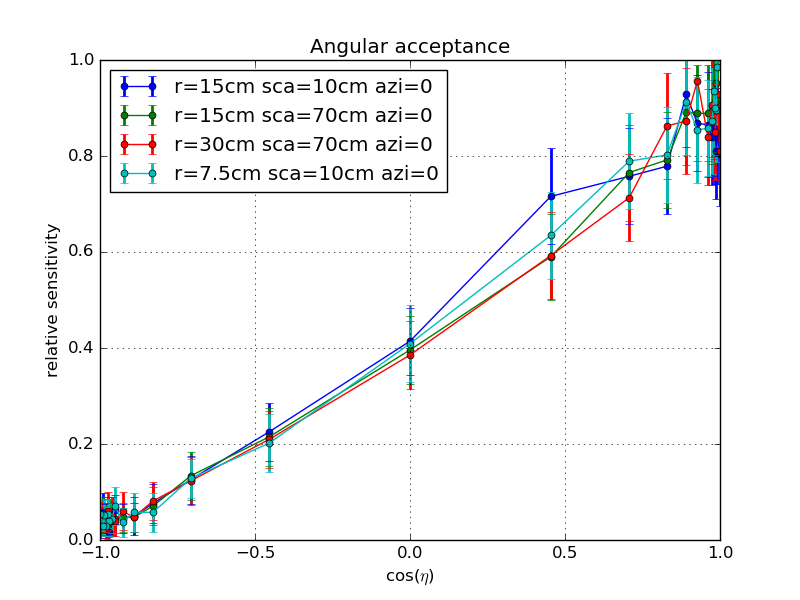
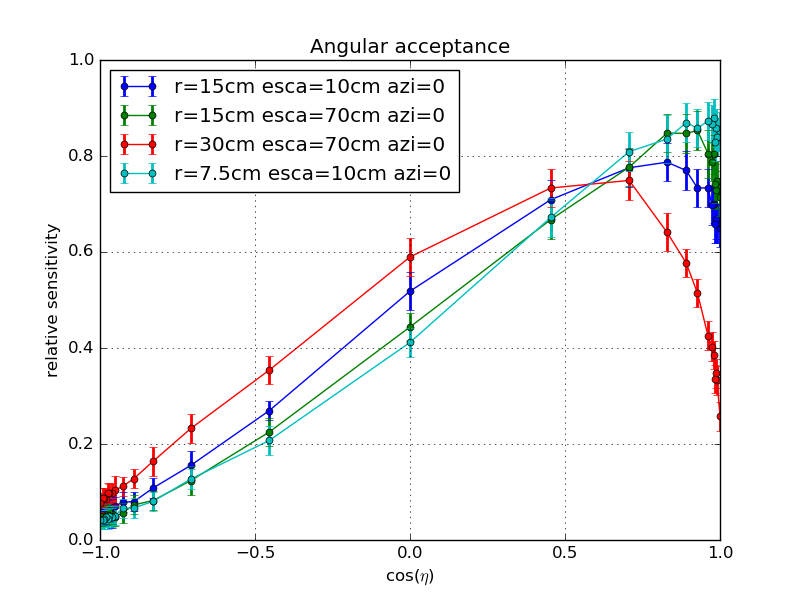
updating calibration-call slides: more statistics, esca rather than sca
https://github.com/fiedl/hole-ice-study/issues/117

diff --git a/latex-beamer/text/azimuthal_angles.tex b/latex-beamer/text/azimuthal_angles.tex
@@ -8,7 +8,7 @@
     \vspace{1cm}
 
     \textbf{YouTube video with Steamshovel visualization}: \\ \vspace{0.2cm}
-    \url{https://www.youtube.com/watch?v=M_QGNdGG9Ew}
+    \url{https://youtu.be/Wiu8CpVQn14}
 
     \vspace{1cm}
 
@@ -52,22 +52,22 @@
 \begin{frame}[fragile]{Simulation results}
   \begin{columns}
     \begin{column}{0.5\textwidth}
-      \includegraphics[width=\textwidth]{img/summer_scenario_r7-5cm_sca10cm}
+      \includegraphics[width=\textwidth]{img/summer_scenario_r7-5cm_esca10cm}
     \end{column}
     \begin{column}{0.5\textwidth}
       \includegraphics[width=0.8\textwidth]{img/summerscenario-003}
     \end{column}
   \end{columns}
 
-  \tiny Total photon hit count: 12968 / 1e6
+  \tiny Total photon hit count: 118441 / 1e7
 
   \tiny Configuration: Starting distance $3\m$, plane-wave extent $3\m$, bubble-column geometric scattering length $10\cm$, bulk-ice geometric scattering length $130\cm$.
   \normalsize
 
   \begin{itemize}
     \item For lower polar angles ($\cos\eta \approx 1$), less photons should arrive from azimuths B and C as from azimuth A
-      \tiny as the DOM's PMTs look downwards and photons from B and C are more likely to cross the bubble-column cylinder. \normalsize
-    \item From azimuths B and C, the same number of photons should arrive \tiny due to the symmetry of the scenario (right image). \normalsize
+      \tiny as the DOM's PMTs look downwards and photons from B and C are more likely to cross the bubble-column cylinder. \normalsize \checkmark
+    \item From azimuths B and C, the same number of photons should arrive \tiny due to the symmetry of the scenario (right image). \normalsize \checkmark
   \end{itemize}
 \end{frame}
 
@@ -75,20 +75,21 @@
 \begin{frame}[fragile]{Simulation results}
   \begin{columns}
     \begin{column}{0.5\textwidth}
-      \includegraphics[width=\textwidth]{img/summer_scenario_r15cm_sca10cm}
+      \includegraphics[width=\textwidth]{img/summer_scenario_r15cm_esca10cm}
     \end{column}
     \begin{column}{0.5\textwidth}
       \includegraphics[width=0.8\textwidth]{img/summerscenario-004}
     \end{column}
   \end{columns}
 
-  \tiny Total photon hit count: 11600 / 1e6
+  \tiny Total photon hit count: 94866 / 1e7
 
   \tiny Configuration: Starting distance $3\m$, plane-wave extent $3\m$, bubble-column geometric scattering length $10\cm$, bulk-ice geometric scattering length $130\cm$.
   \normalsize
 
   \begin{itemize}
-    \item For a larger bubble column with same scattering lenght, the effect should increase. \checkmark
+    \item For a larger bubble column with same scattering length, the effect should increase. \checkmark
+    \item For photons coming from below, the blue curve should see a stronger effect as well. \checkmark
   \end{itemize}
 \end{frame}
 
@@ -96,14 +97,14 @@
 \begin{frame}[fragile]{Simulation results}
   \begin{columns}
     \begin{column}{0.5\textwidth}
-      \includegraphics[width=\textwidth]{img/summer_scenario_r15cm_sca70cm}
+      \includegraphics[width=\textwidth]{img/summer_scenario_r15cm_esca70cm}
     \end{column}
     \begin{column}{0.5\textwidth}
       \includegraphics[width=0.8\textwidth]{img/summerscenario-004}
     \end{column}
   \end{columns}
 
-  \tiny Total photon hit count: 13115 / 1e6
+  \tiny Total photon hit count: 108198 / 1e7
 
   \tiny Configuration: Starting distance $3\m$, plane-wave extent $3\m$, bubble-column geometric scattering length $70\cm$, bulk-ice geometric scattering length $130\cm$.
   \normalsize
@@ -117,20 +118,20 @@
 \begin{frame}[fragile]{Simulation results}
   \begin{columns}
     \begin{column}{0.5\textwidth}
-      \includegraphics[width=\textwidth]{img/summer_scenario_r30cm_sca70cm}
+      \includegraphics[width=\textwidth]{img/summer_scenario_r30cm_esca70cm}
     \end{column}
     \begin{column}{0.5\textwidth}
       \includegraphics[width=0.8\textwidth]{img/summerscenario-005}
     \end{column}
   \end{columns}
 
-  \tiny Total photon hit count: 12339 / 1e6
+  \tiny Total photon hit count: 72595 / 1e7
 
   \tiny Configuration: Starting distance $3\m$, plane-wave extent $3\m$, bubble-column geometric scattering length $70\cm$, bulk-ice geometric scattering length $130\cm$.
   \normalsize
 
   \begin{itemize}
-    \item For a larger bubble column, the effect should increase.
+    \item For a larger bubble column, the effect should increase. \checkmark
     \item Less photons should arrive in total \tiny as the whole DOM is now shielded by the hole ice. \normalsize \checkmark
   \end{itemize}
 \end{frame}
@@ -151,7 +152,7 @@
 
   \begin{itemize}
     \item Comparing different bubble columns for the same direction of incoming photons.
-    \item For a stronger or larger bubble column, the effect should increase.
+    \item For a stronger or larger bubble column, the effect should increase. \checkmark
   \end{itemize}
 \end{frame}
 
@@ -173,7 +174,7 @@
 
   YouTube video of the simulation:
 
-  \url{https://www.youtube.com/watch?v=M_QGNdGG9Ew}
+  \url{https://youtu.be/Wiu8CpVQn14}
 
   \end{center}
 \end{frame}

diff --git a/latex-beamer/main.tex b/latex-beamer/main.tex
@@ -11,7 +11,7 @@
 
 \title{Direct hole-ice simulations with Upgrade-like geometry}
 \subtitle{IceCube Calibration Call 2018-10-19}
-\date{2018-10-19 \\ \vspace*{2mm} \tiny{Document 2018-ahch8Phe}}
+\date{2018-10-19 \\ \vspace*{2mm} \tiny{Document 2018-ahch8Phe} \normalsize \\ \vspace*{8mm} \color{red}{2018-11-07: Updated version with more statistics and effective rather than geometric scattering lengths where the effects are more prominent. \\ New steamshovel video: \url{https://youtu.be/Wiu8CpVQn14}}}
 
 \author[Summer Blot, DESY \& Sebastian Fiedlschuster, ECAP]{Summer Blot \& Sebastian Fiedlschuster}
 %\author[Sebastian Fiedlschuster, ECAP Erlangen]{Sebastian Fiedlschuster \\ \tiny{\url{https://github.com/fiedl/hole-ice-study/issues/117}} \\ \tiny\texttt{sebastian@fiedlschuster.de}}
